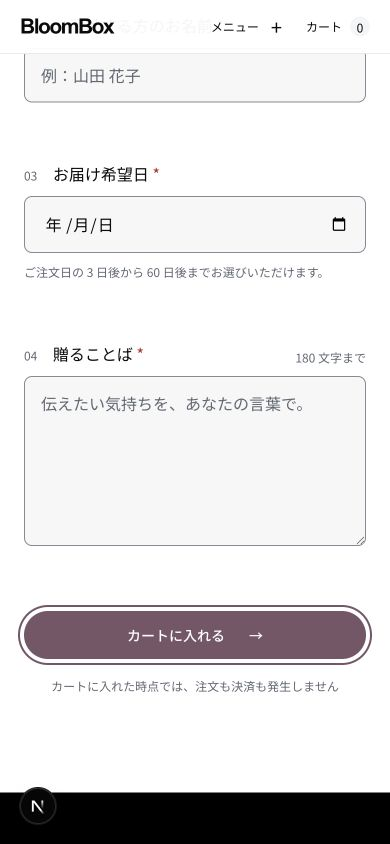
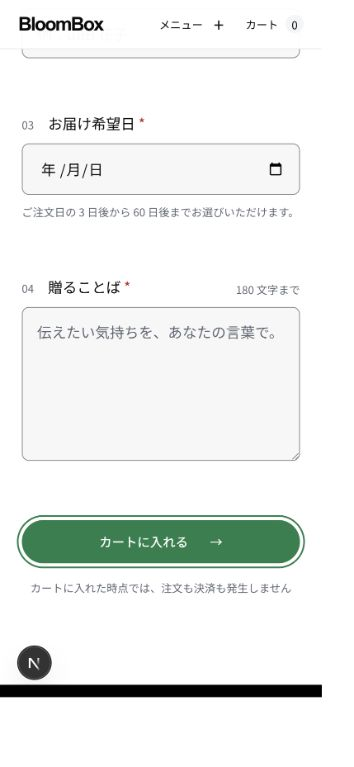
style: express fresh flowers with a leaf green accent

diff --git a/src/app/globals.css b/src/app/globals.css
@@ -7,8 +7,8 @@
   --field: #f7f7f7;
   --line: #e9e9eb;
   --control-border: #858a95;
-  --accent: #785568;
-  --accent-hover: #634353;
+  --accent: #16804a;
+  --accent-hover: #10663b;
   --positive: #247447;
   --danger: #b42318;
   --danger-surface: #fff0ed;

diff --git a/docs/design/DESIGN_SYSTEM.md b/docs/design/DESIGN_SYSTEM.md
@@ -10,11 +10,11 @@ Version 2.1 · 2026-09-11 · 対象：公開サイト、商品一覧・詳細、
 
 参照：ユーザー提供『NOT_A_HOTEL_デザインガイドライン_v2.docx』および [NOT A HOTEL公式サイト](https://notahotel.com/)（2026-09-11確認）。添付資料は第三者によるデザイン分析として扱い、公式のブランド規定や作業権限とは区別した。
 
-参照サイトの白・黒と余白の構成を土台に、BloomBoxの主操作色はローズプラムへ調整する（2026-09-11、ユーザーのアクセントカラー改善依頼）。花弁を思わせる低彩度の赤紫を、写真に添える小さな色として使う。包装の最終配色を確定するものではない。
+参照サイトの白・黒と余白の構成を土台に、BloomBoxの主操作色はフレッシュグリーンへ調整する（2026-09-11、ユーザーの「ロスフラワーとフレッシュさを表現するカラー」という指定）。葉や茎のみずみずしさを感じる、明るさのある緑を使う。花の色と白い余白を活かし、主操作と選択状態に絞って配する。包装の最終配色を確定するものではない。
 
 | 参照の特徴 | BloomBoxでの実装 | 意図的な調整 |
 | --- | --- | --- |
-| コンパクトなヘッダー、右側の導線 | PC 62px、モバイル54px、ローズプラムのCTA | ブランドはBloomBox。プレビュー表示を別の28px帯で保持 |
+| コンパクトなヘッダー、右側の導線 | PC 62px、モバイル54px、フレッシュグリーンのCTA | ブランドはBloomBox。プレビュー表示を別の28px帯で保持 |
 | 画面いっぱいの写真、中央の凝縮英字、下部の2ボタン | `hero`、`display-title`、`hero-actions` | 既存の花の写真と「FLOWERS」を使用。静止画のため再生操作は不要 |
 | 大きな余白と短い日本語見出し | 章間120px／96px、本文16px、見出し28px | 購入フォームの内部は24〜48pxで操作の連続性を保つ |
 | 写真主体の整列カード、説明を写真の外へ | `ProductCard`、写真5:6、角丸8px、価格は罫線下 | 現行3商品に合わせて3列→2列→1列。資料内のLP3列構成を採用 |
@@ -27,7 +27,7 @@ Version 2.1 · 2026-09-11 · 対象：公開サイト、商品一覧・詳細、
 ## 2. 基本原則
 
 1. **写真に面積を、情報に余白を。** 写真の上に説明文や価格を重ねない。例外はホームの短いヒーロー見出しと操作。
-2. **一つの領域に主操作は一つ。** ローズプラムは購入・次へ進む操作に使う。戻る・詳しく読む・絞り込みは副操作。
+2. **一つの領域に主操作は一つ。** フレッシュグリーンは購入・次へ進む操作に使う。戻る・詳しく読む・絞り込みは副操作。
 3. **整列が装飾になる。** カードの段差、斜めの切り抜き、飾りの円、筆記的な下線、常時の影は使わない。
 4. **余白は情報の関係を示す。** 同じ項目内は8〜16px、グループは24〜48px、章は96〜120px。
 5. **状態を消さない。** プレビュー、売切れ、エラー、処理中、購入条件を小さく隠して単純化しない。
@@ -58,8 +58,8 @@ Version 2.1 · 2026-09-11 · 対象：公開サイト、商品一覧・詳細、
 | `--field` | `#F7F7F7` | 入力背景 |
 | `--line` | `#E9E9EB` | 装飾的な区切り線 |
 | `--control-border` | `#858A95` | 入力・副操作の識別に必要な境界 |
-| `--accent` | `#785568` | 主操作、現在位置、フォーカス（ローズプラム） |
-| `--accent-hover` | `#634353` | 主操作のhover |
+| `--accent` | `#16804A` | 主操作、現在位置、フォーカス（フレッシュグリーン） |
+| `--accent-hover` | `#10663B` | 主操作のhover |
 | `--positive` | `#247447` | 成功・販売可能（必ず文言を併用） |
 | `--danger` | `#B42318` | エラー文・エラー境界 |
 | `--danger-surface` | `#FFF0ED` | エラーの面 |
@@ -69,7 +69,7 @@ Version 2.1 · 2026-09-11 · 対象：公開サイト、商品一覧・詳細、
 
 ヒーローは黒54%の`--hero-scrim`を重ねる。白い写真領域でも小さい白文字のコントラストを確保する設定。写真の差し替え時にも見出しの位置を確認する。
 
-白に対する`--accent`は約6.37:1、`--accent-hover`は約8.54:1。補助面`--surface`に対する`--accent`は約5.84:1、入力面`--field`では約5.94:1、`--ink-soft`は約5.60:1。薄い`--line`を入力の唯一の識別手段として使わない。色値は`:root`内に置き、コンポーネントでは役割名で参照する。
+白に対する`--accent`は約4.98:1、`--accent-hover`は約7.03:1。補助面`--surface`に対する`--accent`は約4.56:1、入力面`--field`では約4.64:1。白に対する`--ink-soft`は約5.60:1。薄い`--line`を入力の唯一の識別手段として使わない。色値は`:root`内に置き、コンポーネントでは役割名で参照する。
 
 ## 5. タイポグラフィ
 
@@ -117,7 +117,7 @@ Version 2.1 · 2026-09-11 · 対象：公開サイト、商品一覧・詳細、
 | OutcomeHero | 写真→英字ラベル→display→日本語h1→副／主操作 | 写真が遅くても黒い背景と文字・操作を表示。固定写真で自動再生なし |
 | SectionHeading | eyebrow→h2→必要なら説明、隣に副操作 | モバイルは縦積み。リンクの文言を消して矢印だけにしない |
 | ProductCard | 写真リンク→属性→商品名→説明→場面→税込価格 | 写真に重要情報を埋め込まない。3箇所で同一コンポーネントを利用。一覧ではh2、章内ではh3 |
-| PrimaryAction | `.primary-button` | ローズプラム地・白文字。hoverは深いプラム。disabledは操作不可と透明度。送信中の文言は呼び出し側 |
+| PrimaryAction | `.primary-button` | フレッシュグリーン地・白文字。hoverは深いグリーン。disabledは操作不可と透明度。送信中の文言は呼び出し側 |
 | SecondaryAction | `.secondary-button` | 枠線のピル。黒い章・ヒーローでは反転。主操作と横並びなら視覚的な強さを下げる |
 | TextAction | `.text-link`／`.text-button` | 最低48px。本文中の外部リンクとは区別。矢印は装飾 |
 | FieldGroup | label→入力→補足／エラー | 16px入力、48px以上。focusリング、`aria-invalid`、エラー文を併用。形式エラーの送信時は最初の不正項目へフォーカス |
@@ -139,7 +139,7 @@ Version 2.1 · 2026-09-11 · 対象：公開サイト、商品一覧・詳細、
 
 ## 9. アクセシビリティと動き
 
-本文へ移動するスキップリンク、見出し階層、明示的なラベル、キーボードフォーカスを維持する。白い面のfocusはローズプラム、黒い面とヒーローでは白い輪郭を使う。入力エラーは枠色と文章の両方で表示する。
+本文へ移動するスキップリンク、見出し階層、明示的なラベル、キーボードフォーカスを維持する。白い面のfocusはフレッシュグリーン、黒い面とヒーローでは白い輪郭を使う。入力エラーは枠色と文章の両方で表示する。
 
 標準操作は48px以上。ヘッダーの小型CTAは40px、フッターリンクは40px、本文の補助リンクは文脈内の大きさを使用する。購入画面の手順ラベルはモバイルのみ10pxだが、操作対象にはしない。税込・プレビュー・エラーを10px以下へ縮めない。
 

diff --git a/docs/design/VERIFICATION.md b/docs/design/VERIFICATION.md
@@ -2,12 +2,12 @@
 
 ## v2.1 アクセントカラー更新 — 2026-09-11
 
-ユーザーの配色改善依頼により、主操作・現在位置・フォーカスをローズプラムへ変更。変更レベルはL1。CSSの `--accent`（#785568）と `--accent-hover`（#634353）のみを変更し、全画面で共有する。成功・エラーの意味色と購入処理は変更していない。
+ユーザーの「ロスフラワーとフレッシュさを表現するカラー」という指定により、主操作・現在位置・フォーカスをフレッシュグリーンへ変更。変更レベルはL1。CSSの `--accent`（#16804A）と `--accent-hover`（#10663B）のみを変更し、全画面で共有する。成功・エラーの意味色と購入処理は変更していない。
 
-- sRGB相対輝度から計算した白とのコントラスト：通常6.37:1、hover 8.54:1。通常色と補助面は5.84:1、入力面は5.94:1。
+- sRGB相対輝度から計算した白とのコントラスト：通常4.98:1、hover 7.03:1。通常色と補助面は4.56:1、入力面は4.64:1。
 - ローカルで `pnpm check:ci` 成功：型・lint・デザイン規約・境界検査、245件のテスト、本番ビルド。既存DB7件はローカル設定なしでskip。
-- 開発サーバーで1280pxのホームと390pxのギフト入力を目視確認。390pxでは文書幅・スクロール幅が一致し、横overflowなし。
-- Tabで主ボタンへ移動し、白文字、ローズプラムの背景と2pxのフォーカス輪郭を確認。hoverはトークンと既存CSSルール、コントラスト計算を確認。実ポインターのhover・スクリーンリーダーの再試験は行っていない。
+- 開発サーバーで1280pxのホームと390pxのギフト入力を目視確認。モバイルの入力欄・主操作の収まりを目視確認。今回のブラウザ内の寸法取得はタイムアウトしたため、幅の数値一致は再確認していない。
+- Tabで主ボタンへ移動し、白文字、フレッシュグリーンの背景と2pxのフォーカス輪郭を確認。hoverはトークンと既存CSSルール、コントラスト計算を確認。実ポインターのhover・スクリーンリーダーの再試験は行っていない。
 - 最新の配色証跡：[ホーム](evidence/accent-home-desktop.jpg)、[ギフト入力とフォーカス](evidence/accent-gift-mobile.jpg)。以下のv2.0画像は以前の青い配色を記録した履歴であり、現行配色の見本ではない。
 - 戻す場合はこの配色変更のコミットをrevertし、CSSとガイドを合わせて戻す。追加依存・環境変数・DB変更なし。
 
